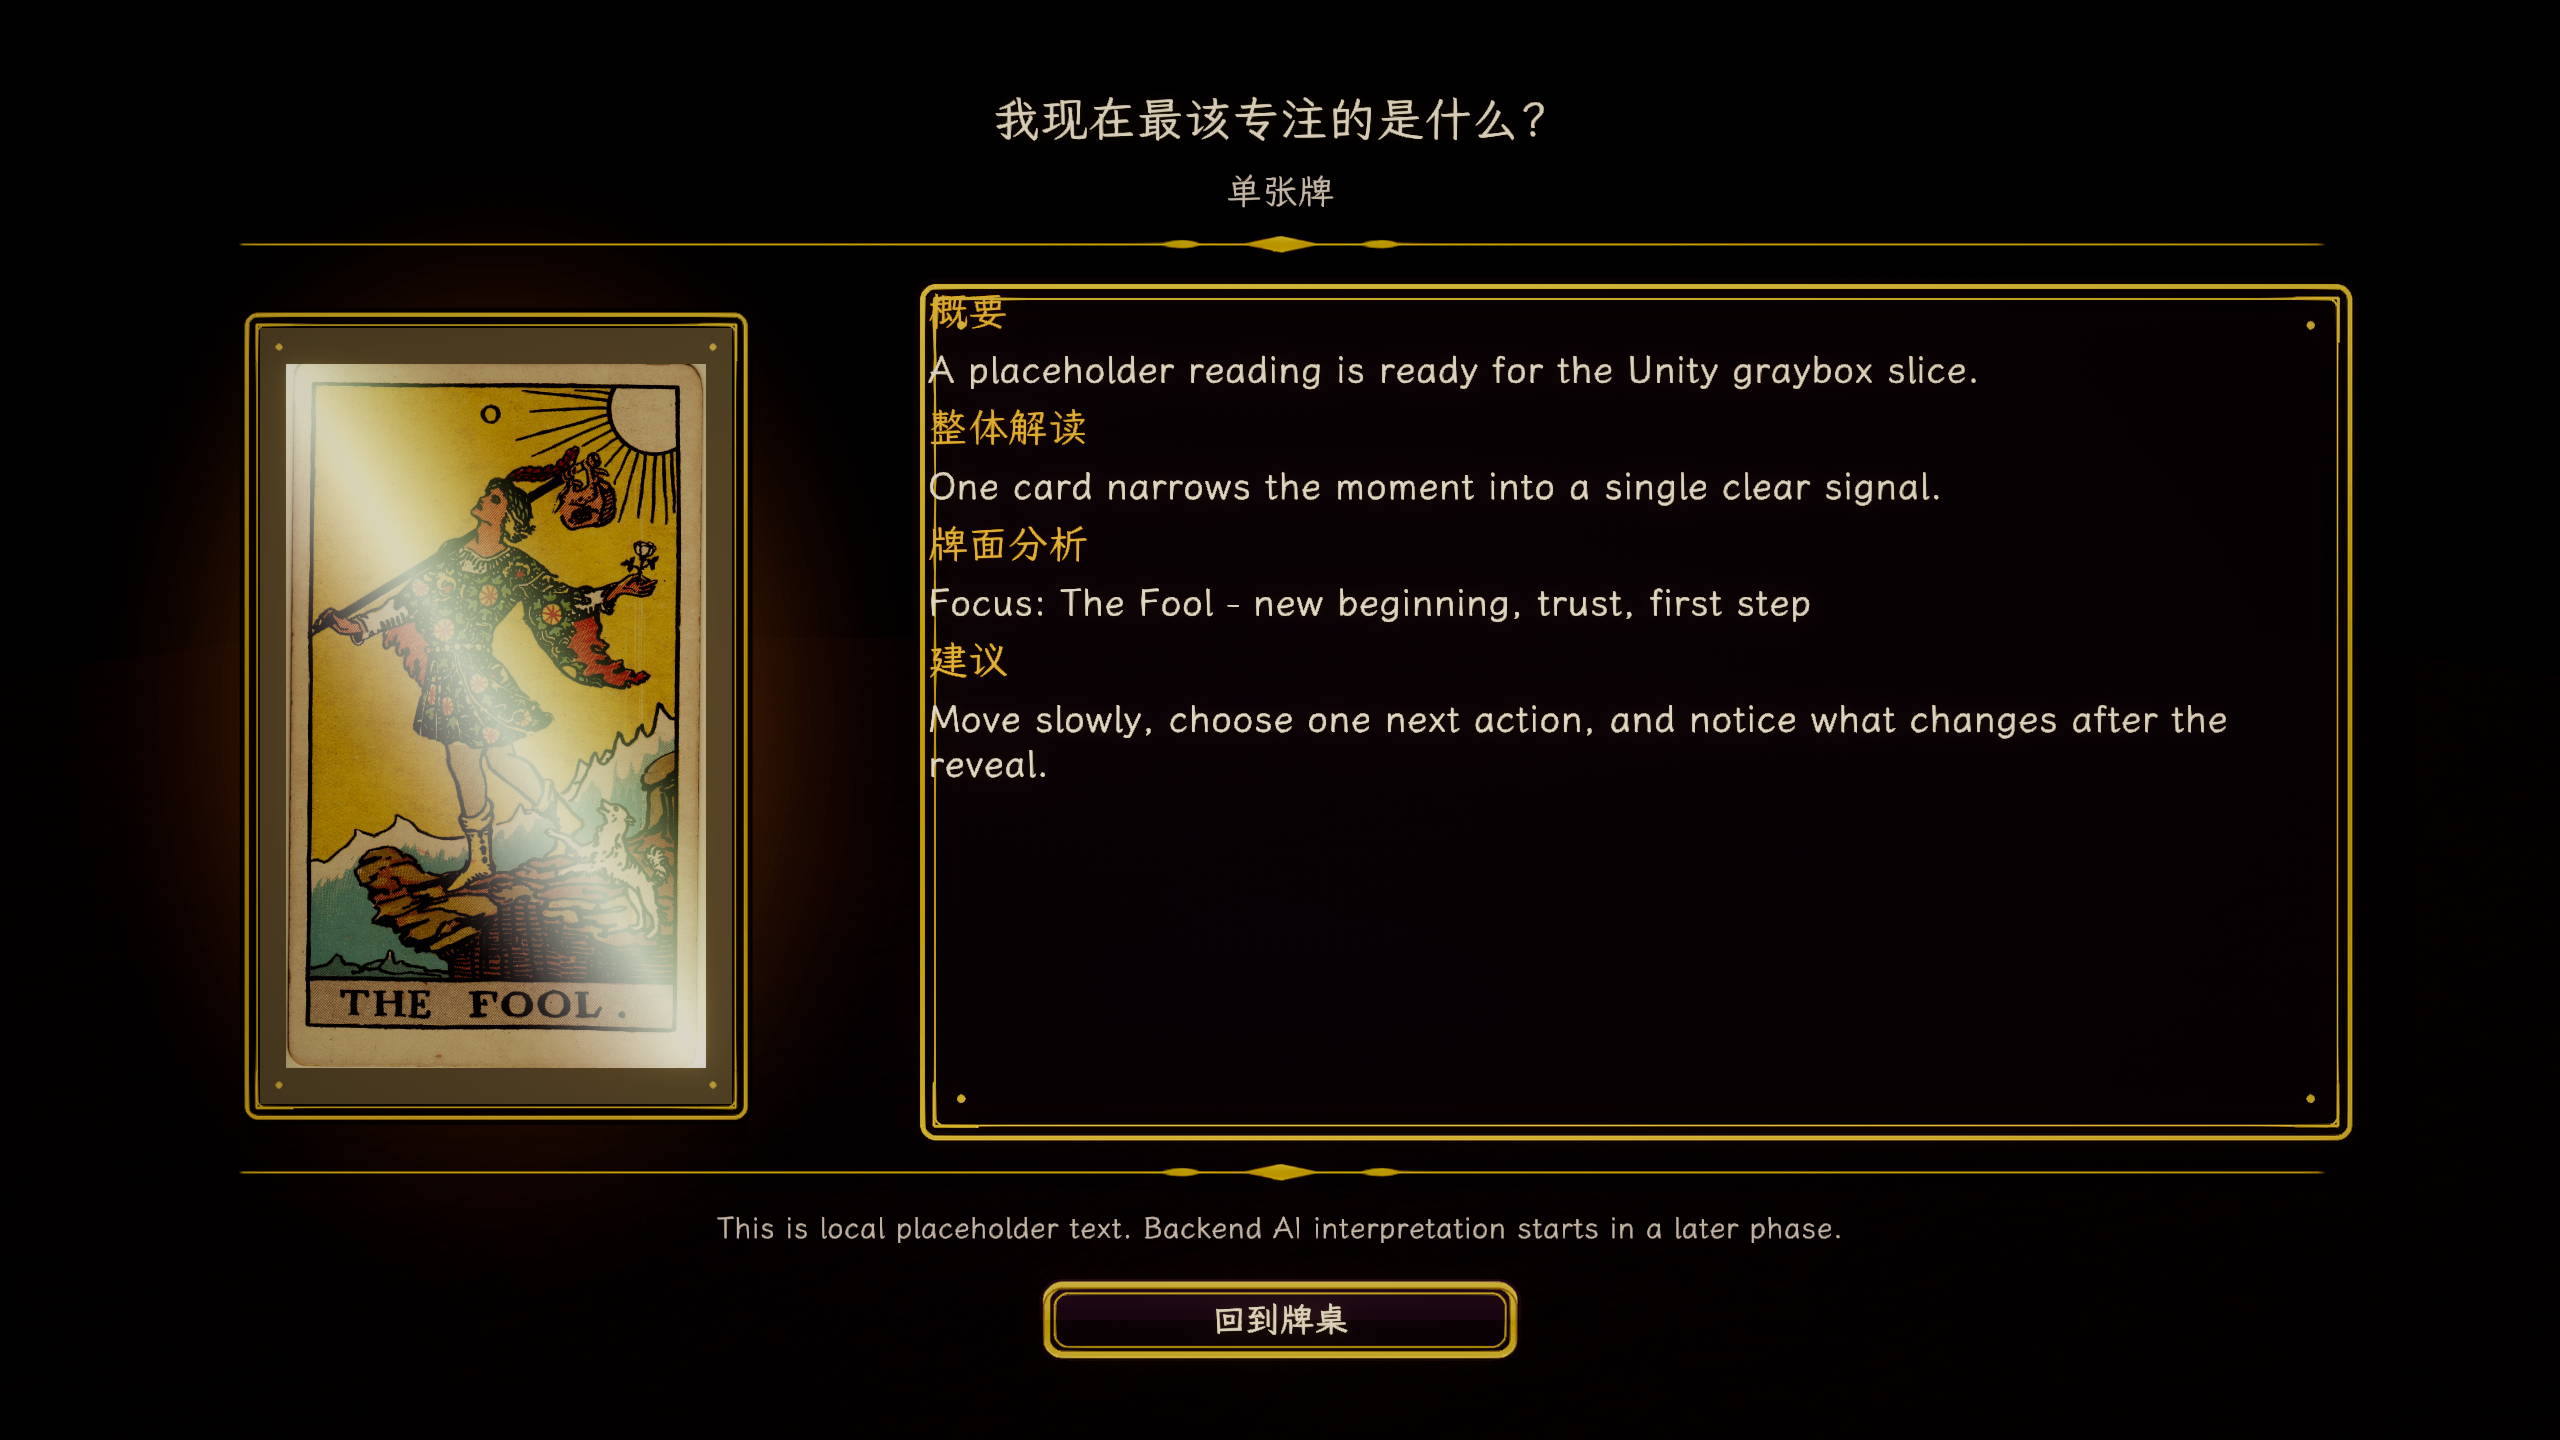
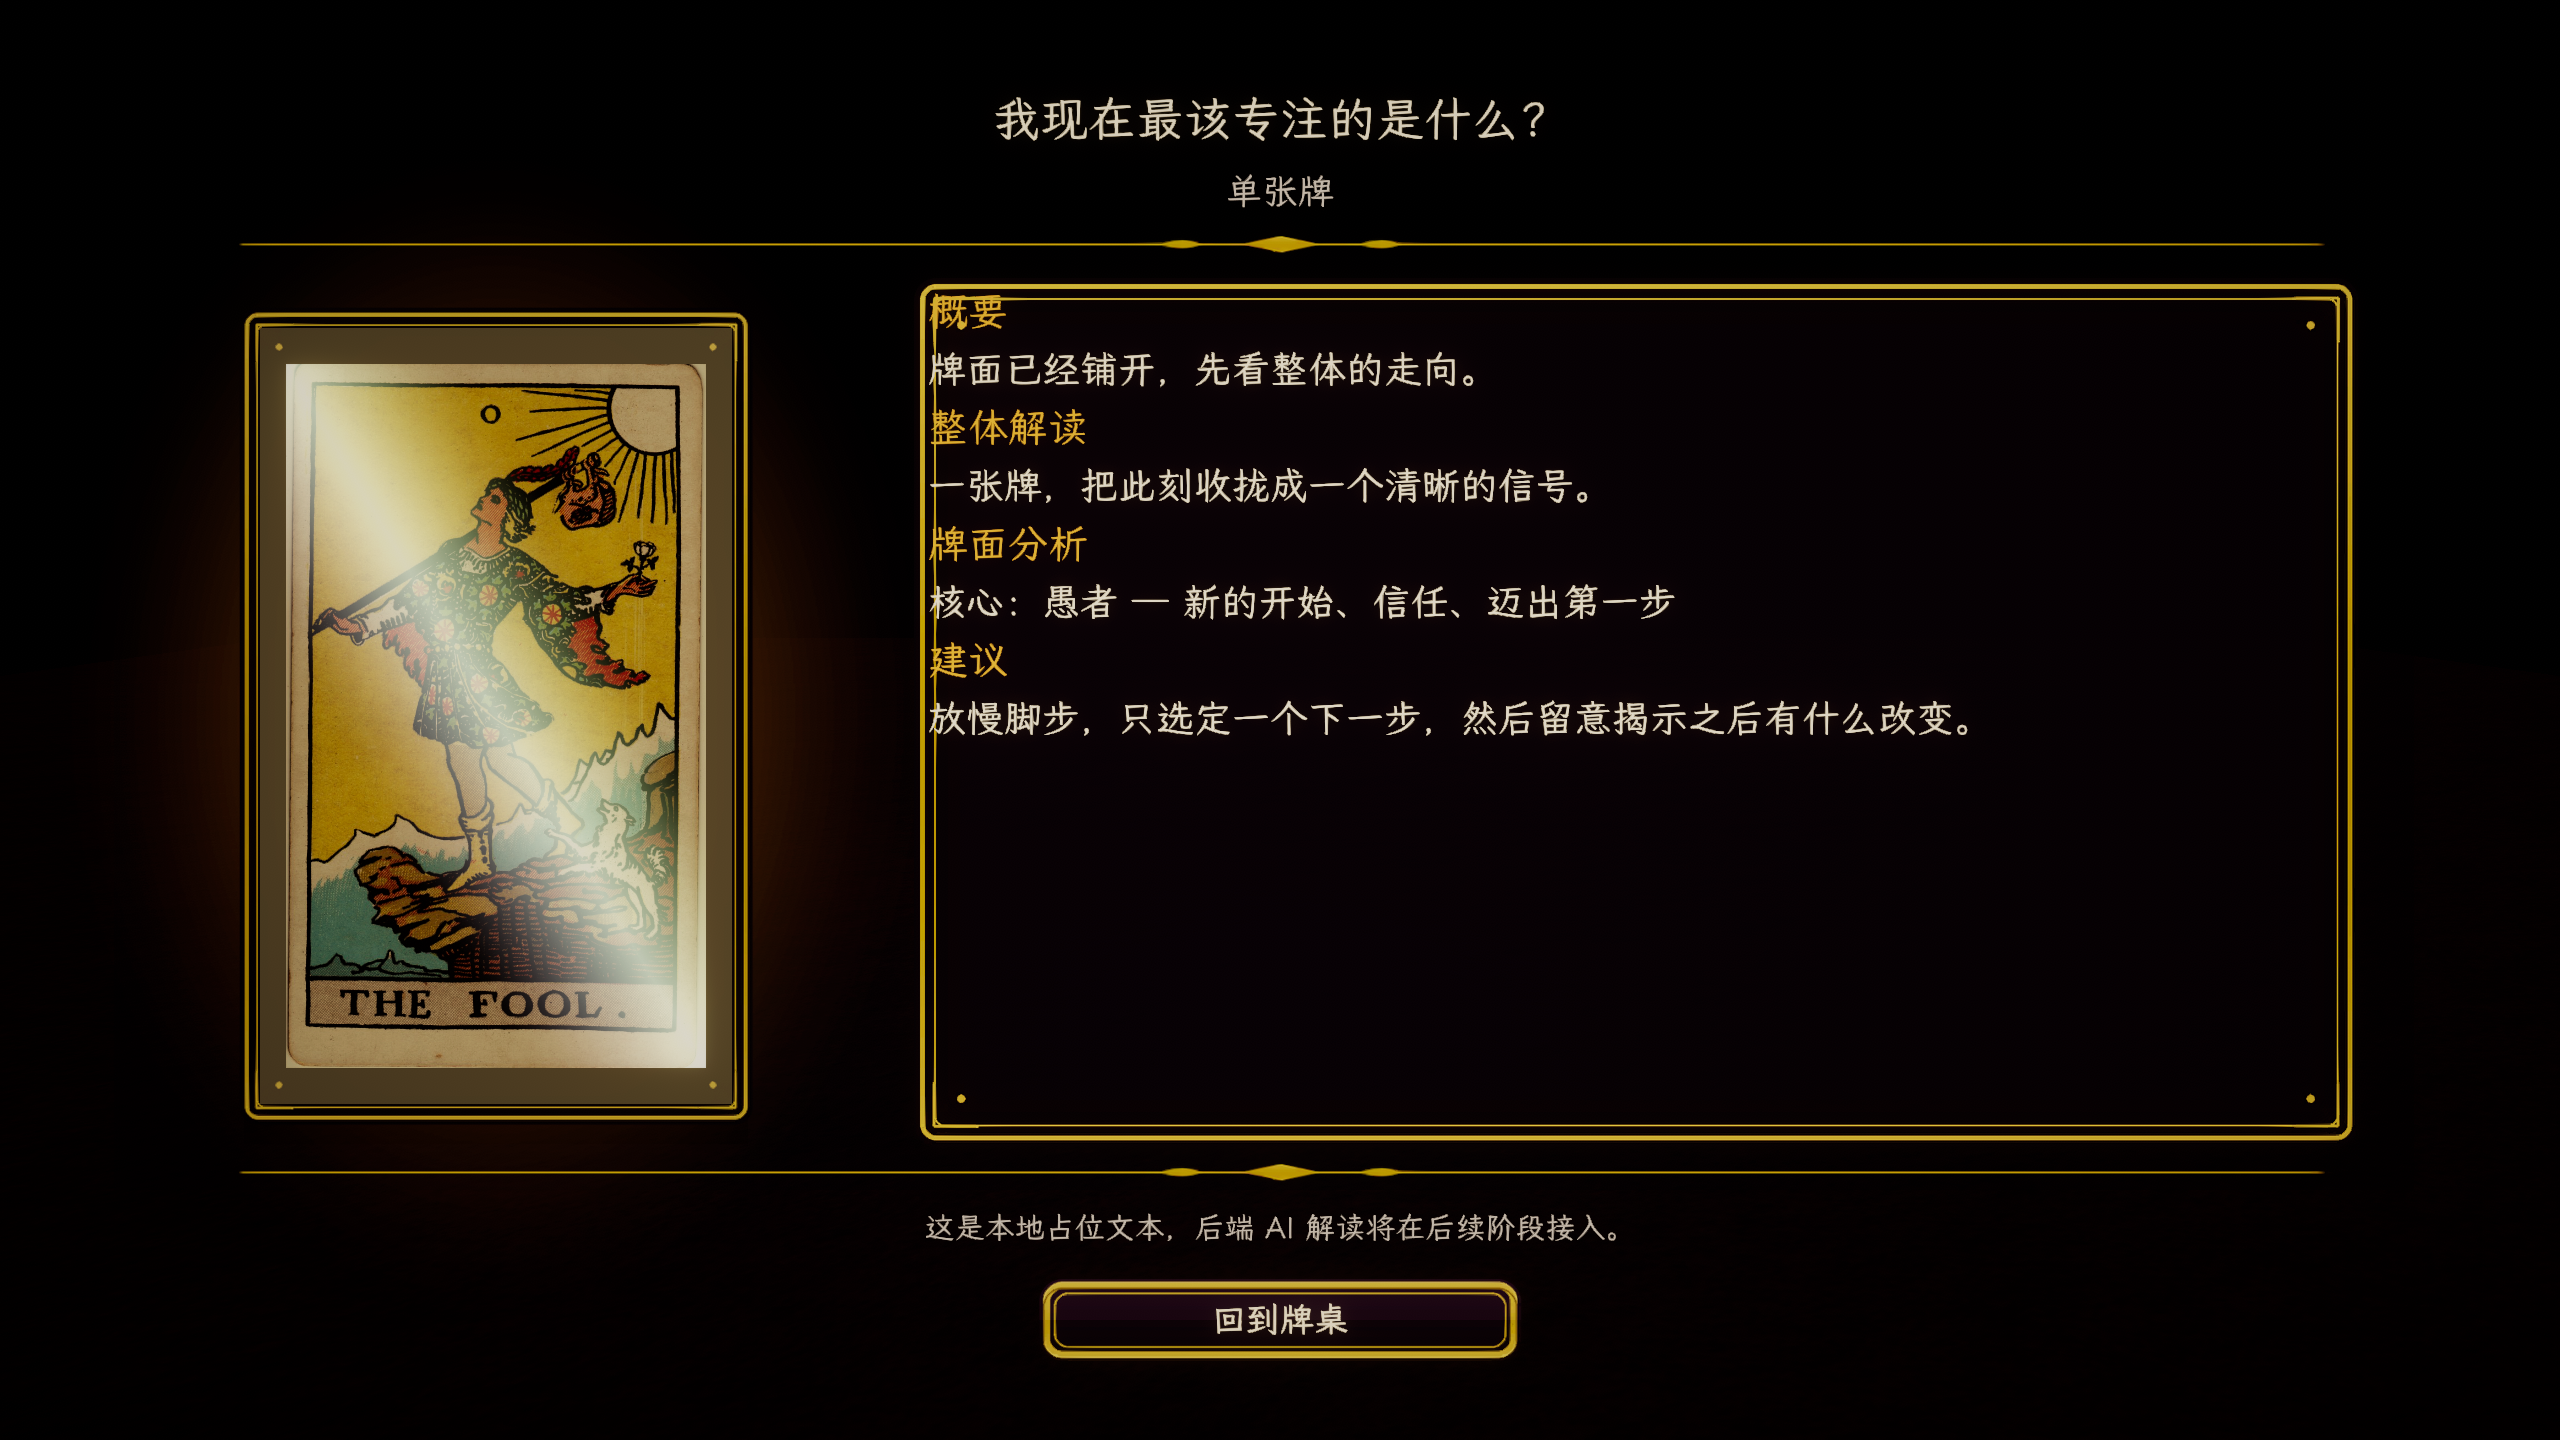
Localize the offline placeholder reading to Chinese
The offline LocalReadingSimulator (the stand-in shown when playing without the
backend) was entirely English - card names, position names, summary/overall/
advice/analysis - so an offline reading rendered English under the Chinese UI.
The backend returns Chinese; this makes the offline fallback match.

- PlaceholderCards now use Chinese names (愚者/魔术师/…) and Chinese keyword
  meanings; position names become 过去/现在/建议 (and 核心 for one card).
- Summary/overall/advice/warning and the card-analysis format are Chinese
  (「过去：愚者 — 新的开始、信任、迈出第一步」, reversed marked （逆位）).
- Card face artwork stays as the authentic public-domain RWS1909 scans (their
  printed English titles are the historical art, not UI text).

No test asserted the old English strings (Phase 4/13 build their own local data;
sprite resolution keys on suit/number, not names). Phase 60 captures regenerated
on the Chinese data. EditMode 287/287, PlayMode 33/33.

diff --git a/UnityClient/TarotUnity/Assets/Scripts/Gameplay/LocalReadingSimulator.cs b/UnityClient/TarotUnity/Assets/Scripts/Gameplay/LocalReadingSimulator.cs
@@ -6,14 +6,17 @@ namespace TarotUnity.Gameplay
 {
     public static class LocalReadingSimulator
     {
+        // The offline placeholder reading. The real reading comes from the backend
+        // AI (Chinese); this stands in when playing offline, so it is Chinese too,
+        // to match the rest of the interface. name_en is kept for traceability.
         private static readonly (string Zh, string En, string Meaning)[] PlaceholderCards =
         {
-            ("The Fool", "The Fool", "new beginning, trust, first step"),
-            ("The Magician", "The Magician", "focus, will, skill"),
-            ("The High Priestess", "The High Priestess", "intuition, silence, hidden knowledge"),
-            ("The Empress", "The Empress", "growth, care, embodied abundance"),
-            ("The Chariot", "The Chariot", "direction, discipline, momentum"),
-            ("The Star", "The Star", "healing, hope, quiet guidance"),
+            ("愚者", "The Fool", "新的开始、信任、迈出第一步"),
+            ("魔术师", "The Magician", "专注、意志、能力"),
+            ("女祭司", "The High Priestess", "直觉、沉默、隐藏的知识"),
+            ("皇后", "The Empress", "成长、滋养、丰盛"),
+            ("战车", "The Chariot", "方向、自律、势头"),
+            ("星星", "The Star", "疗愈、希望、安静的指引"),
         };
 
         public static CardDrawData[] CreatePlaceholderDraws(int cardCount)
@@ -49,7 +52,7 @@ namespace TarotUnity.Gameplay
                         name_en = card.En,
                         is_reversed = i % 3 == 2,
                         meaning = card.Meaning,
-                        keywords = card.Meaning.Split(", "),
+                        keywords = card.Meaning.Split('、'),
                         position = i + 1,
                         position_name = PositionName(i, safeCount),
                         position_meaning = PositionMeaning(i, safeCount),
@@ -74,14 +77,14 @@ namespace TarotUnity.Gameplay
                 spreadId = spreadId,
                 spreadName = spreadName,
                 cardCount = draws?.Length ?? 0,
-                question = string.IsNullOrWhiteSpace(question) ? "What should I notice now?" : question,
+                question = string.IsNullOrWhiteSpace(question) ? "我现在该留意什么？" : question,
                 questionType = string.IsNullOrWhiteSpace(questionType) ? "general" : questionType,
                 cardDraws = draws ?? Array.Empty<CardDrawData>(),
-                summary = "A placeholder reading is ready for the Unity graybox slice.",
+                summary = "牌面已经铺开，先看整体的走向。",
                 overallInterpretation = BuildOverall(draws),
                 cardAnalysis = BuildCardAnalysis(draws),
-                advice = "Move slowly, choose one next action, and notice what changes after the reveal.",
-                warning = "This is local placeholder text. Backend AI interpretation starts in a later phase.",
+                advice = "放慢脚步，只选定一个下一步，然后留意揭示之后有什么改变。",
+                warning = "这是本地占位文本，后端 AI 解读将在后续阶段接入。",
             };
         }
 
@@ -89,12 +92,12 @@ namespace TarotUnity.Gameplay
         {
             if (draws == null || draws.Length == 0)
             {
-                return "The table is quiet. Draw cards to reveal the first message.";
+                return "牌桌还很安静。抽牌来揭开第一条讯息。";
             }
 
             return draws.Length == 1
-                ? "One card narrows the moment into a single clear signal."
-                : "The spread moves from context to tension to advice, giving the reading a simple beginning, middle, and next step.";
+                ? "一张牌，把此刻收拢成一个清晰的信号。"
+                : "这组牌从过去走到现在，再落到给你的建议——一个清晰的开始、当下与下一步。";
         }
 
         private static string BuildCardAnalysis(CardDrawData[] draws)
@@ -108,15 +111,15 @@ namespace TarotUnity.Gameplay
             foreach (var draw in draws)
             {
                 builder.Append(draw.position_name);
-                builder.Append(": ");
-                builder.Append(draw.tarot_card?.name_zh ?? "Unknown Card");
+                builder.Append("：");
+                builder.Append(draw.tarot_card?.name_zh ?? "未知牌");
                 if (draw.is_reversed)
                 {
-                    builder.Append(" reversed");
+                    builder.Append("（逆位）");
                 }
 
-                builder.Append(" - ");
-                builder.Append(draw.card_meaning?.meaning ?? "placeholder meaning");
+                builder.Append(" — ");
+                builder.Append(draw.card_meaning?.meaning ?? "占位含义");
                 builder.AppendLine();
             }
 
@@ -127,15 +130,15 @@ namespace TarotUnity.Gameplay
         {
             if (count == 1)
             {
-                return "Focus";
+                return "核心";
             }
 
             return index switch
             {
-                0 => "Past",
-                1 => "Present",
-                2 => "Advice",
-                _ => $"Position {index + 1}",
+                0 => "过去",
+                1 => "现在",
+                2 => "建议",
+                _ => $"第 {index + 1} 位",
             };
         }
 
@@ -143,17 +146,16 @@ namespace TarotUnity.Gameplay
         {
             if (count == 1)
             {
-                return "The clearest signal for this question.";
+                return "针对这个问题最清晰的信号。";
             }
 
             return index switch
             {
-                0 => "What brought this question here.",
-                1 => "What is active now.",
-                2 => "The next useful posture.",
-                _ => "Additional context.",
+                0 => "是什么把这个问题带到了这里。",
+                1 => "此刻正在起作用的是什么。",
+                2 => "接下来更有用的姿态。",
+                _ => "额外的背景。",
             };
         }
     }
 }
-
